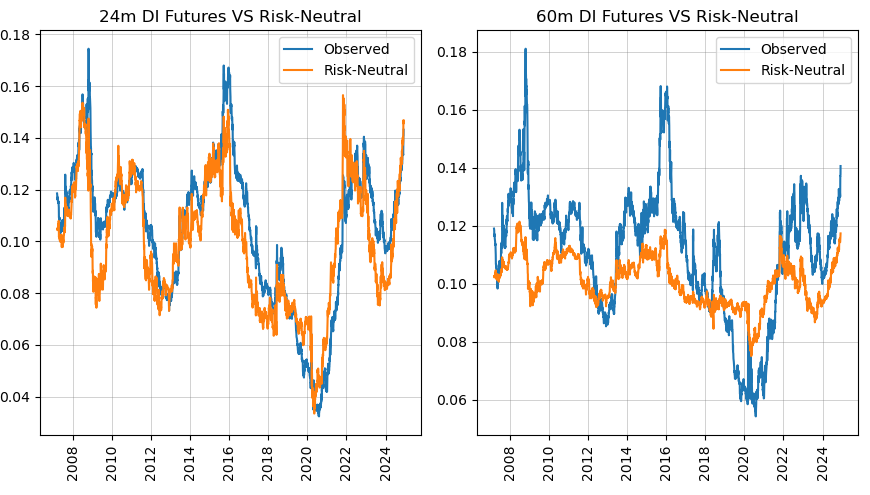
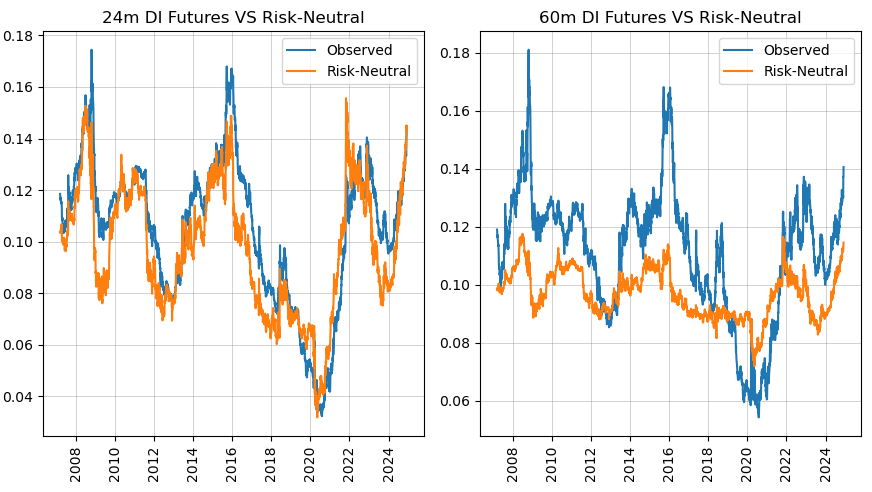
Updating README and pictures, and removing unused functions

Changed region(s): [[0.0, 0.0, 0.9931, 0.9756], [0.2172, 0.6707, 0.2483, 0.7317]]

diff --git a/setup.py b/setup.py
@@ -27,7 +27,6 @@ setup(
         'pandas',
         'scikit-learn',
         'statsmodels',
-        'tqdm',
     ],
     keywords=[
         'asset pricing',

diff --git a/README.md b/README.md
@@ -1,5 +1,5 @@
 [paper_website]: https://www.newyorkfed.org/medialibrary/media/research/staff_reports/sr340.pdf
-[inference_atribute]: https://github.com/gusamarante/pyacm/blob/ba641c14e450fc83d22db4ef5e60eadbd489b351/pyacm/acm.py#L203
+
 
 # pyacm
 Implementation of ["Pricing the Term Structure with Linear Regressions" from 
@@ -18,13 +18,13 @@ carries all the relevant variables as atributes:
 - Term premium
 - Historical in-sample expected returns 
 - Expected return loadings
-- Hypothesis testing (Not sure if correct, more info observations below)
 
 
 # Instalation
 ```bash
 pip install pyacm
 ```
+
 
 # Usage
 ```python
@@ -42,13 +42,9 @@ The tricky part of using this model is getting the correct data format. The
 - Maturities (columns) must be equally spaced in **monthly** frequency and start 
 at month 1. This means that you need to construct a bootstraped curve for every 
 date and interpolate it at fixed monthly maturities
-- Whichever maturity you want to be the longest, your input data should have one
-column more. For example, if you want term premium estimate up to the 10-year 
-yield (120 months), your input data should include maturities up to 121 months. 
-This is needed to properly compute the returns.
+
 
 # Examples
-
 The estimates for the US are available on the [NY FED website](https://www.newyorkfed.org/research/data_indicators/term-premia-tabs#/overview).
 
 The jupyter notebook [`example_br`](https://github.com/gusamarante/pyacm/blob/main/example_br.ipynb) 
@@ -65,14 +61,5 @@ contains an example application to the Brazilian DI futures curve that showcases
 > FRB of New York Staff Report No. 340, 
 > Available at SSRN: https://ssrn.com/abstract=1362586 or http://dx.doi.org/10.2139/ssrn.1362586
 
-The version of the article that was published by the NY FED is not 100% explicit on how the data is being manipulated, 
-but I found an earlier version of the paper on SSRN where the authors go deeper into the details on how everything is being estimated:
-- Data for zero yields uses monthly maturities starting from month 1
-- All principal components and model parameters are estiamted with data resampled to a monthly frequency, averaging observations in each month
-- To get daily / real-time estimates, the factor loadings estimated from the monthly frquency are used to transform the daily data
-
-
-# Observations
-I am not completely sure that computations in the [inferences attributes][inference_atribute] 
-are correct. If you find any mistakes, please open a pull request following the contributing 
-guidelines.
+I would like to thank Emanuel Moench for sending me his original MATLAB code in 
+order to perfectly replicate these results.
